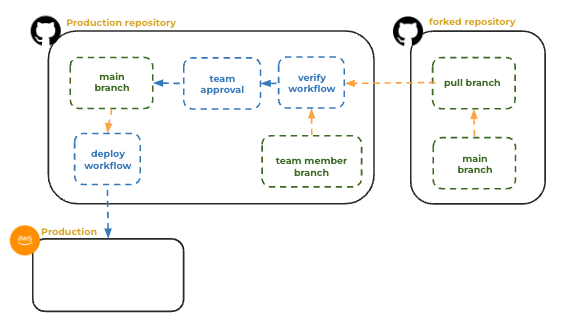
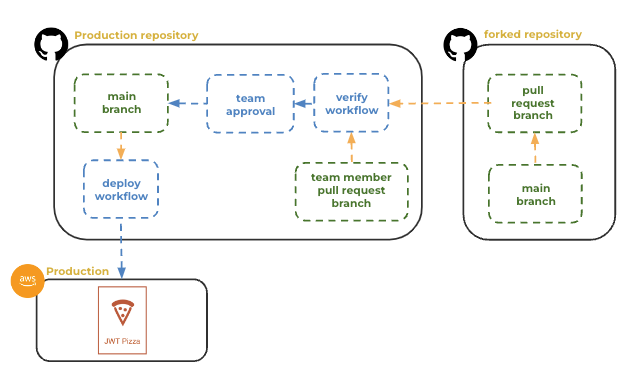
enhance(d6) content, still have a way to go

Changed region(s): [[0.0, 0.0308, 0.9929, 0.9846]]

diff --git a/instruction/deliverable6ScalableDeploy/deliverable6ScalableDeploy.md b/instruction/deliverable6ScalableDeploy/deliverable6ScalableDeploy.md
@@ -1,24 +1,29 @@
 # Deliverable ⓺ Scalable deployment: JWT Pizza Service
 
-![course overview](../courseOverview.png)
+![course overview](../sharedImages/courseOverview.png)
 
-Now that you have some experience with creating, registering, and deploying simple containers it is time to deploy JWT Pizza Service to the Cloud.
+Now that you have experience with creating, registering, and deploying simple containers it is time to deploy JWT Pizza Service to the Cloud. This deliverable represents the **Scalable compute** portion of our product overview diagram. It provides the hosting of the jwt-pizza-service in a way that can support an ever growing customer base.
 
-## Setup ECR
+Your work on this deliverable consists of four parts:
 
-Follow the [AWS ECR instruction](../awsEcr/awsEcr.md) in order to get your AWS account setup to store the JWT Pizza Service container images in a Docker compliant Registry.
+1. **ECR configuration**: Setup ECR to keep track of the different versions of your jwt-pizza-service Docker container images.
+1. **Image registration CI**: Modify the CI pipeline to automatically build and deploy a new container image to ECR.
+1. **ECS configuration**: Setup ECS to deploy a container to Fargate and expose it publicly using the application load balancer.
+1. **Image deployment CI**: Modify the Ci pipeline to automatically deploy a new container image to ECS.
 
-## Setup ECS
+![Deliverable 6 overview](deliverable6Overview.png)
 
-Follow the [AWS ECS instruction](../awsEcs/awsEcs.md) in order to get your AWS account setup to host the JWT Pizza Service container using Fargate.
+## Step 1: ECR configuration
 
-## GitHub action: Upload container image
+You should have already followed the [AWS ECR instruction](../awsEcr/awsEcr.md) in order to get your AWS account setup to store the JWT Pizza Service container images in a Docker compliant Registry. If you have not done that yet, do so now.
 
-In order to automate building and uploading a Docker container image for the JWT Pizza service, you need increase the rights that the workflow has, and modify workflow script to build and push the image.
+## Step 2: Image registration CI
+
+The ECR fully configured you are ready to automate the building and uploading a Docker container image for the JWT Pizza service whenever a change is made to the jwt-pizza-service code base. This work requires that you increase the rights that the CI workflow has, and modify workflow script to build and push the Docker image.
 
 ### Modify the IAM trust policy
 
-We need to modify the `github-ci` IAM role so that it can create an OIDC connection when requests are made from the `jwt-pizza-service` GitHub repository.
+In order for the `jwt-pizza-service` CI workflow make requests over the OIDC authorized connection you must alter the previously configured `github-ci` IAM role so that the `jwt-pizza-service` GitHub repository is also part of the trust relationship.
 
 1. Open the AWS IAM service console.
 1. Choose `Roles`.
@@ -59,7 +64,7 @@ Next you need to enhance the `github-ci` user rights so that they can push to EC
 
 1. Press `Next`.
 
-### Modify the workflow script for upload
+### Modify the CI workflow script for image upload
 
 Previously the workflow stopped after the tests were done and the coverage badge was updated. Now, you need to do the following steps:
 
@@ -81,7 +86,7 @@ Previously the workflow stopped after the tests were done and the coverage badge
      uses: aws-actions/configure-aws-credentials@v4
      with:
        audience: sts.amazonaws.com
-       aws-region: us-east-2
+       aws-region: us-east-1
        role-to-assume: arn:aws:iam::${{ secrets.AWS_ACCOUNT }}:role/${{ secrets.CI_IAM_ROLE }}
    ```
 1. Login to AWS ECR. We need to provide credentials to Docker so that it can push container images into the register. This [action](https://github.com/aws-actions/amazon-ecr-login) gets a temporary password from ECR using the OIDC credential we previously obtained.
@@ -115,20 +120,82 @@ Previously the workflow stopped after the tests were done and the coverage badge
        docker build --platform=linux/arm64 -t $ECR_REGISTRY/$ECR_REPOSITORY --push .
    ```
 
-### Test upload
+### Test the image push
 
-You should now be able to commit and push the workflow script to GitHub. This will trigger your container image to build and push to ECR. Once it is done you should see your image show up on the ECR images dashboard.
+You should now be able to commit and push the workflow script to GitHub. This will trigger a container image to build and push to ECR. Once it is done you should see your image show up on the ECR images dashboard.
 
 ![ECR images](ecrImages.png)
 
-## GitHub action: Deploy container
+## Step 3: ECS configuration
 
-With a new image in the registry you can now automate the deployment of the container to Fargate.
+You should have already followed the [AWS ECS instruction](../awsEcs/awsEcs.md) in order to get your AWS account setup to host the JWT Pizza Service container using Fargate and an application load balancer. Additionally, you should have already set up your [RDS MySQL database](../awsRdsMysql/awsRdsMysql.md). If you have not done this yet, then do so now.
 
-1. Create a new task definition.
-1. Update the service to the new task.
+## Step 4: Image deployment CI
 
-https://docs.github.com/en/actions/deployment/deploying-to-your-cloud-provider/deploying-to-amazon-elastic-container-service
+With ECR configured, the CI workflow for building and pushing a container image to ECR, and ECS configured to deploy a container, you are now ready to enhance the CI workflow to automatically push the container to ECS and update the application load balancer.
+
+You will do this by adding three new steps to the workflow.
+
+1. Make a copy of the existing `jwt-pizza-service` task definition and save it to a file named `task-definition.json`.
+   ```yml
+   - name: Download task definition
+   run: |
+      aws ecs describe-task-definition --region us-east-2 --task-definition jwt-pizza-service --query taskDefinition > task-definition.json
+      echo $(cat task-definition.json | jq 'del(.taskDefinitionArn, .requiresAttributes, .compatibilities, .revision, .status, .registeredAt, .registeredBy)') > task-definition.json
+   ```
+1. Modify the task definition so that it contains the name of the new container image that you just created.
+   ```yml
+   - name: Create new task definition
+   id: task-def
+   uses: aws-actions/amazon-ecs-render-task-definition@v1
+   with:
+      task-definition: task-definition.json
+      container-name: jwt-pizza-service
+      image: ${{ steps.build-image.outputs.image }}
+   ```
+1. Deploy the new task definition and update of the ECS service. This will trigger ECS to create a rolling deployment of the new container and update the application load balancer to expose the new container.
+   ```yml
+   - name: Deploy new task definition
+   uses: aws-actions/amazon-ecs-deploy-task-definition@v1
+   with:
+      task-definition: ${{ steps.task-def.outputs.task-definition }}
+      service: jwt-pizza-service
+      cluster: jwt-pizza-service
+      wait-for-service-stability: false
+   ```
+
+### Test the container deployment
+
+With the above changes in place you should be able to test the backend by making curl requests.
+
+Replace the `byucsstudent.click` domain name with your own.
+
+```sh
+curl 'https://pizza-service.byucsstudent.click'
+{"message":"welcome to JWT Pizza","version":"20240525.025706"}
+
+curl 'https://pizza-service.byucsstudent.click/api/order/menu'
+[]
+
+curl -X PUT -c cookies.txt 'https://pizza-service.byucsstudent.click/api/auth' -d '{"email":"a@jwt.com", "password":"admin"}' -H 'Content-Type: application/json'
+{"id":1,"name":"常用名字","email":"a@jwt.com","roles":[{"role":"admin"}]}
+```
+
+Currently your database only has the default admin user that was inserted when the database was initialized the first time a connection was made. If you want to add some basic menu, user, franchise, and shop data you can run the following Curl commands.
+
+```sh
+curl -X PUT -c cookies.txt 'https://pizza-service.byucsstudent.click/api/auth' -d '{"email":"a@jwt.com", "password":"admin"}' -H 'Content-Type: application/json'
+
+curl -X POST -c cookies.txt 'https://pizza-service.byucsstudent.click/api/auth' -d '{"name":"pizza diner", "email":"d@jwt.com", "password":"diner"}' -H 'Content-Type: application/json'
+
+
+curl -X POST -c cookies.txt 'https://pizza-service.byucsstudent.click/api/auth' -d '{"name":"pizza franchisee", "email":"f@jwt.com", "password":"franchisee"}' -H 'Content-Type: application/json'
+
+add menu items
+
+add franchise with franchisee as admin
+
+```
 
 ## Deploy the full cloud stack
 

diff --git a/instruction/awsEcs/awsEcs.md b/instruction/awsEcs/awsEcs.md
@@ -2,9 +2,9 @@
 
 https://aws.amazon.com/blogs/compute/building-blocks-of-amazon-ecs/
 
-The Elastic Container Service (ECS) provides the functionality necessary to deploy your container image. After you have uploaded your image to [ECR](../awsEcr/awsEcr.md) you can create an ECS cluster and service to either load your container with the AWS Elastic Kubernetes Service (EKS) or AWS Fargate.
+The Elastic Container Service (ECS) provides the functionality necessary to deploy your container image. After you have uploaded your image to [ECR](../awsEcr/awsEcr.md) you can create an ECS cluster and service to either load your container on EC2 instances or AWS Fargate.
 
-The EKS deploys container to EC2 instances your you provision. This requires you to launch, scale, and manage your own EC2 instance. Alternatively, you can use AWS Fargate to automatically manage the host of your containers. For our work in the course we will use AWS Fargate.
+If you choose to configure ECS to deploy to EC2 instances then you must launch, scale, and manage your those EC2 instance. Alternatively, if you use AWS Fargate, Fargate will automatically manage the launching, scaling, and managing of the containers. For our work in the course we will use AWS Fargate.
 
 The basic pieces that ECS provides are as follows.
 
@@ -90,11 +90,15 @@ Before you can create an ECS task you must
    1. Select the option to auto assign a `Public IP` address.
 1. Press `Create`.
 
+## Verifying the container deployment
+
 Once you have launched the container it should only take a couple of seconds for it to be available for use. Navigate to the service and select the `Tasks` tab. Then select the currently running task and use the networking bindings to see the IP address that is being used. Navigate your browser to that location and you should see the `jwt-pizza-service`.
 
 ![ECS Container Launched](ecsContainerLaunched.gif)
 
 ## Configure the ECS service ALB version
+
+Exposing a container over a public IP address only works if you don't plan to scale the number of deployed containers to meet an increase in customer requests or ever deploy a new container whenever the code changes. That is not going to work for JWT Pizza. That means that we need to insert a load balancer into the architecture so that we can scale up and release new versions without change the IP address that a customer uses to access the service.
 
 In addition to the above, do the following to deploy with an Application Load Balancer.
 

diff --git a/instruction/containers/containers.md b/instruction/containers/containers.md
@@ -252,13 +252,13 @@ app.listen(3000, () => console.log('Server ready'));
 I tried to do the multi-container support, but my dev environment didn't support it and so I just did arm64 so I can do graviton in ECS.
 
 ```sh
-docker build -t "1234567890.dkr.ecr.us-east-2.amazonaws.com/webserver:latest" --platform linux/arm64 .
+docker build -t "1234567890.dkr.ecr.us-east-1.amazonaws.com/webserver:latest" --platform linux/arm64 .
 ```
 
 You can test it with
 
 ```sh
-docker run --name webserver -p 3000:3000 1234567890.dkr.ecr.us-east-2.amazonaws.com/webserver:latest
+docker run --name webserver -p 3000:3000 1234567890.dkr.ecr.us-east-1.amazonaws.com/webserver:latest
 ```
 
 ### ECR
@@ -266,7 +266,7 @@ docker run --name webserver -p 3000:3000 1234567890.dkr.ecr.us-east-2.amazonaws.
 Login to ECR
 
 ```sh
-aws ecr get-login-password --region us-east-2 | docker login --username AWS --password-stdin 1234567890.dkr.ecr.us-east-2.amazonaws.com
+aws ecr get-login-password --region us-east-1 | docker login --username AWS --password-stdin 1234567890.dkr.ecr.us-east-1.amazonaws.com
 
 Login Succeeded
 ```
@@ -274,7 +274,7 @@ Login Succeeded
 Push the container to ECR
 
 ```sh
-docker push 1234567890.dkr.ecr.us-east-2.amazonaws.com/webserver:latest
+docker push 1234567890.dkr.ecr.us-east-1.amazonaws.com/webserver:latest
 ```
 
 ## Docker CLI Reference

diff --git a/instruction/gitHub/gitHub.md b/instruction/gitHub/gitHub.md
@@ -46,4 +46,10 @@ Later in the course you will fork the application team's repositories. You shoul
 
 GitHub allows you to create a fork of any repository on GitHub. You just push the `Fork` button from the repository's GitHub page. You can then make modifications to the repository fork and push the changes as a _pull request_. This notifies the original repository's owner that a request is being made to enhance the original repository. The owner can review your changes and if appropriate commit the changes into the original. This is how open source communities manage development from a volunteer group of global developers.
 
+![pull request deployment](../sharedImages/pullRequestDeployment.png)
+
+![Pull requests](pullRequests.png)
+
+## Contributing to the course instruction
+
 In this class, if you notice something in the instruction that needs to be enhanced, feel free to fork the [instruction repo](https://github.com/devops329/devops), and make a pull request. This will give you experience with this forking and improve the instruction for others at the same time. Plus your name will be included as a contributor. How cool is that!

diff --git a/instruction/deliverable3UnitTesting/deliverable3UnitTesting.md b/instruction/deliverable3UnitTesting/deliverable3UnitTesting.md
@@ -1,6 +1,6 @@
 # Deliverable ⓷ Unit testing: JWT Pizza Service
 
-![course overview](../courseOverview.png)
+![course overview](../sharedImages/courseOverview.png)
 
 Now that you have added linting and created unit tests for the **jwt-pizza-service**, you are ready to implement the continuous integration (CI) process that will validate the code and calculate coverage on every commit. This will complete your work on this deliverable.
 

diff --git a/instruction/deliverable4UiTesting/deliverable4UiTesting.md b/instruction/deliverable4UiTesting/deliverable4UiTesting.md
@@ -1,6 +1,6 @@
 # Deliverable ⓸ User Interface testing: JWT Pizza
 
-![course overview](../courseOverview.png)
+![course overview](../sharedImages/courseOverview.png)
 
 With the UI testing skills you have learned you are now ready to test the JWT Pizza frontend. As part of these tests you will mock out the backend service so that you don't have to worry about the problems that come with integration testing.
 

diff --git a/instruction/deliverable5CdnDeploy/deliverable5CdnDeploy.md b/instruction/deliverable5CdnDeploy/deliverable5CdnDeploy.md
@@ -1,6 +1,6 @@
 # Deliverable ⓹ Content Delivery Network Deployment: JWT Pizza
 
-![course overview](../courseOverview.png)
+![course overview](../sharedImages/courseOverview.png)
 
 Now that we know how to deploy static content using CloudFront and S3 using GitHub Actions, it is time to move our CDN hosting from GitHub Pages to AWS CloudFront.
 

diff --git a/instruction/deliverable2AutomatedDeploy/deliverable2AutomatedDeploy.md b/instruction/deliverable2AutomatedDeploy/deliverable2AutomatedDeploy.md
@@ -1,6 +1,6 @@
 # Deliverable ⓶ Automated deployment: JWT Pizza
 
-![course overview](../courseOverview.png)
+![course overview](../sharedImages/courseOverview.png)
 
 In your last deliverable we manually builded the JWT Pizza frontend, copied it into a branch, and pushed it to GitHub pages. While this process works, it has several problems.
 

diff --git a/instruction/deliverable1ManualDeploy/deliverable1ManualDeploy.md b/instruction/deliverable1ManualDeploy/deliverable1ManualDeploy.md
@@ -1,6 +1,6 @@
 # Deliverable ⓵ Manual deployment: JWT Pizza
 
-![course overview](../courseOverview.png)
+![course overview](../sharedImages/courseOverview.png)
 
 You now have everything you need to complete the first deliverable of the course. To create this deliverable you will complete the following steps:
 
